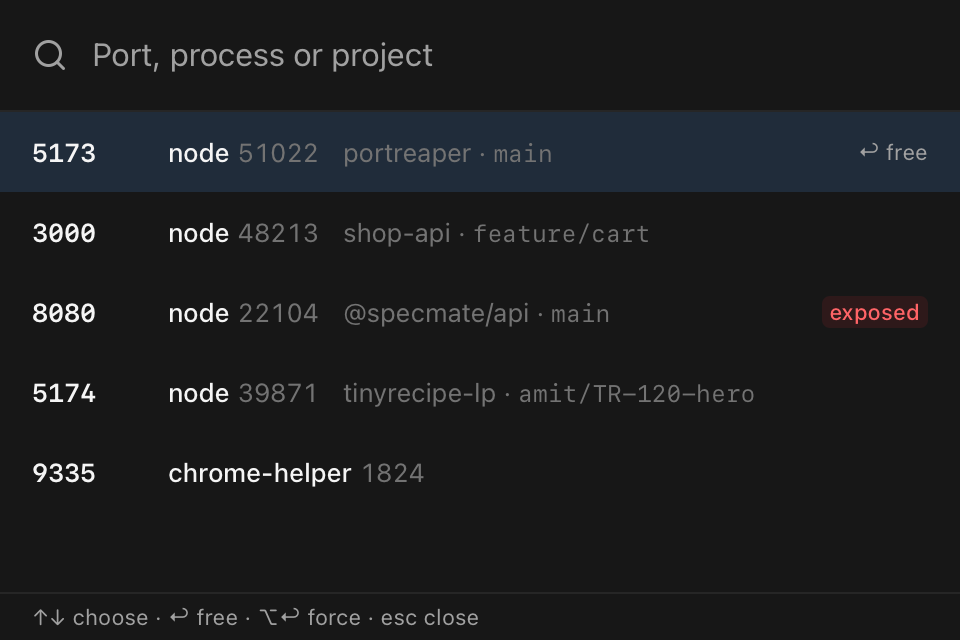
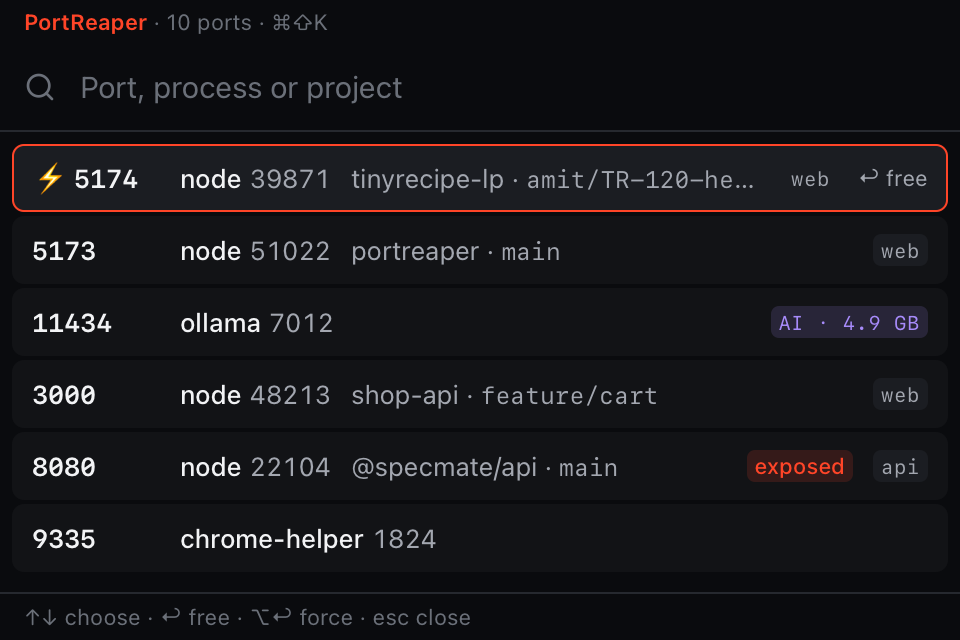
test(quick): e2e for the v2 strip, first paint measured in-page; screenshots
e2e/quick.spec.ts: the zombie heads an empty query and is selected; the
first rows are timed in the browser from the "quick:start" mark in main.ts
to the first [role=option] (cold and, after a reload, warm from the
session cache), asserted under 100 ms; typing 3 lists the 3000-prefixed
ports with :3000 first; Enter shows the result row, timed in-page (held
~182 ms), and the query is clear within 500 ms while the strip stays (the
hide is a no-op in a browser); the protected flow and Esc kept; the ai row
(?fixture=ai) shows "AI · 4.9 GB". No row counts asserted: the mock is
WP-11's and may grow.

docs/screenshot-quick*.png regenerated with the screenshot project on the
ai fixture; dark only now, so both files are the same picture.

Claude-Session: https://claude.ai/code/session_014oBow5NfEU2pNt3KKwmMyp

diff --git a/e2e/quick.spec.ts b/e2e/quick.spec.ts
@@ -1,57 +1,175 @@
 import { expect, type Locator, type Page, test } from "@playwright/test";
 
 /**
- * The Quick strip (`quick.html`, WP-8b) in a browser against the mock core. The window that
- * hosts it (480×320, always on top, hidden on blur) is WP-8a's and is not here: in a browser
- * `hideCurrentWindow()` is a no-op, so after a kill or Esc the strip simply stays on screen.
+ * The Quick strip (`quick.html`: WP-8b, made instant and restyled by WP-12) in a browser against
+ * the mock core. The window that hosts it (480×320, always on top, hidden on blur) is WP-8a's
+ * and is not here: in a browser `hideCurrentWindow()` is a no-op, so after a kill or Esc the
+ * strip simply stays on screen.
+ *
+ * Row counts are never asserted: WP-11 may add entries to the mock. What is relied on: :3000
+ * (a dev server), :5432 (protected, Docker, which also holds :6379), :5174 (the lost-terminal
+ * zombie, so it heads an empty query), and the Ollama row `?fixture=ai` adds.
  */
 test.use({ viewport: { width: 480, height: 320 } });
 test.describe.configure({ mode: "parallel" });
 
-/** What an empty query shows: the mock's unprotected entries, newest first (`recents()` in src/quick/match.ts). */
-const RECENT_PORTS = [5173, 3000, 8080, 5174, 9335];
-
 const input = (page: Page): Locator => page.getByRole("combobox", { name: "Free a port" });
 const options = (page: Page): Locator => page.getByRole("option");
 const option = (page: Page, port: number): Locator => page.locator(`[role="option"][data-port="${port}"]`);
+const chip = (row: Locator): Locator => row.locator("[data-chip]");
+const header = (page: Page): Locator => page.locator("header");
 const footer = (page: Page): Locator => page.locator("footer");
 const shownPorts = (page: Page) =>
   options(page).evaluateAll((els) => els.map((el) => Number(el.getAttribute("data-port"))));
 
-/** Opens the strip and waits for the first poll: the recents, with the caret in the input. */
-async function openQuick(page: Page): Promise<void> {
-  await page.goto("/quick.html");
-  await expect(options(page)).toHaveCount(RECENT_PORTS.length);
+/** Opens the strip and waits for the first list: the zombie heads it, the caret is in the input. */
+async function openQuick(page: Page, search = ""): Promise<void> {
+  await page.goto(`/quick.html${search}`);
+  await expect(options(page).first()).toHaveAttribute("data-port", "5174");
   await expect(input(page)).toBeFocused();
 }
 
-test("typing 30 selects :3000; Enter frees it, says so, then the strip clears without it", async ({
+/** Marks `quick:rows` the moment the first row is in the DOM; `main.ts` marks `quick:start` when its script runs. */
+function markFirstRows(page: Page): Promise<void> {
+  return page.addInitScript(() => {
+    const observer = new MutationObserver(() => {
+      if (document.querySelector('[role="option"]')) {
+        performance.mark("quick:rows");
+        observer.disconnect();
+      }
+    });
+    observer.observe(document, { childList: true, subtree: true });
+  });
+}
+
+/** ms from `main.ts` to the first row, and from navigation start to the first row (which includes fetching the modules). */
+function firstPaint(page: Page): Promise<{ sinceScript: number; sinceNavigation: number }> {
+  return page.evaluate(() => {
+    const rows = performance.getEntriesByName("quick:rows")[0];
+    const start = performance.getEntriesByName("quick:start")[0];
+    if (!rows || !start) throw new Error("the first-paint marks are missing");
+    return { sinceScript: rows.startTime - start.startTime, sinceNavigation: rows.startTime };
+  });
+}
+
+interface Freed {
+  text: string;
+  heldMs: number;
+}
+declare global {
+  interface Window {
+    __quickFreed?: Promise<Freed>;
+  }
+}
+
+/**
+ * Installs, and waits for the install of, a watcher for a row saying "Freed :<port>". The
+ * result lasts 180 ms, which an assertion round-trip can miss, so the browser itself takes the
+ * times: `freedResult()` resolves once that row has gone again, with its text and how long it
+ * stayed. Call this before Enter; a watcher sent in the same breath as the key can land after it.
+ */
+async function watchFreed(page: Page, port: number): Promise<void> {
+  await page.evaluate((needle) => {
+    window.__quickFreed = new Promise<Freed>((resolve) => {
+      let text: string | null = null;
+      let shownAt = 0;
+      const observer = new MutationObserver(() => {
+        const hit = [...document.querySelectorAll('[role="option"]')].find((o) =>
+          o.textContent?.includes(needle),
+        );
+        if (hit && text === null) {
+          text = hit.textContent ?? "";
+          shownAt = performance.now();
+        } else if (!hit && text !== null) {
+          observer.disconnect();
+          resolve({ text, heldMs: performance.now() - shownAt });
+        }
+      });
+      observer.observe(document, { childList: true, subtree: true, characterData: true });
+    });
+  }, `Freed :${port}`);
+}
+
+function freedResult(page: Page): Promise<Freed> {
+  return page.evaluate(() => {
+    if (!window.__quickFreed) throw new Error("watchFreed() was not called");
+    return window.__quickFreed;
+  });
+}
+
+test("lists rows within 100 ms of load: the lost-terminal zombie first and selected, the header, the footer", async ({
   page,
-}) => {
+}, testInfo) => {
+  await markFirstRows(page);
   await openQuick(page);
-  await expect.poll(() => shownPorts(page)).toEqual(RECENT_PORTS);
-  await expect(option(page, 5173)).toHaveAttribute("aria-selected", "true");
+  const cold = await firstPaint(page);
+  testInfo.annotations.push({
+    type: "first paint (cold)",
+    description: `${cold.sinceScript.toFixed(1)} ms after main.ts, ${cold.sinceNavigation.toFixed(0)} ms after navigation`,
+  });
+  console.log(
+    `[quick] first rows: ${cold.sinceScript.toFixed(1)} ms after main.ts, ${cold.sinceNavigation.toFixed(0)} ms after navigation (cold)`,
+  );
+  expect(cold.sinceScript).toBeLessThan(100);
+
+  const zombie = option(page, 5174);
+  await expect(zombie).toHaveAttribute("aria-selected", "true");
+  await expect(zombie.getByLabel("lost terminal")).toHaveText("⚡");
+  await expect(zombie).toContainText("tinyrecipe-lp");
+  await expect(zombie).toContainText("↩ free");
+  await expect(chip(zombie)).toHaveText("web");
+  await expect(option(page, 3000).getByLabel("lost terminal")).toHaveCount(0);
+  await expect(option(page, 5432)).toHaveCount(0);
+  await expect(header(page)).toHaveText(/^PortReaper · \d+ ports · ⌘⇧K$/);
   await expect(footer(page)).toHaveText("↑↓ choose · ↩ free · ⌥↩ force · esc close");
 
-  await page.keyboard.type("30");
-  await expect(input(page)).toHaveValue("30");
-  await expect(options(page)).toHaveCount(1);
+  // Warm: a reload paints the cached list before its first poll answers.
+  await page.reload();
+  await expect(options(page).first()).toHaveAttribute("data-port", "5174");
+  const warm = await firstPaint(page);
+  testInfo.annotations.push({
+    type: "first paint (warm, from the session cache)",
+    description: `${warm.sinceScript.toFixed(1)} ms after main.ts, ${warm.sinceNavigation.toFixed(0)} ms after navigation`,
+  });
+  console.log(
+    `[quick] first rows: ${warm.sinceScript.toFixed(1)} ms after main.ts, ${warm.sinceNavigation.toFixed(0)} ms after navigation (warm)`,
+  );
+  expect(warm.sinceScript).toBeLessThan(100);
+});
+
+test("typing 3 lists the 3000-prefixed ports, :3000 first; Enter frees it, says so, and the query clears within 500 ms", async ({
+  page,
+}, testInfo) => {
+  await openQuick(page);
+
+  await page.keyboard.type("3");
+  await expect(input(page)).toHaveValue("3");
   const target = option(page, 3000);
   await expect(target).toHaveAttribute("aria-selected", "true");
+  const ports = await shownPorts(page);
+  expect(ports[0]).toBe(3000);
+  expect(ports.every((p) => String(p).startsWith("3"))).toBe(true);
   await expect(target).toContainText("node");
   await expect(target).toContainText("48213");
   await expect(target).toContainText("shop-api");
   await expect(target).toContainText("feature/cart");
   await expect(target).toContainText("↩ free");
+  await expect(chip(target)).toHaveText("web");
 
+  await watchFreed(page, 3000);
   await page.keyboard.press("Enter");
-  await expect(target).toContainText("Freed :3000 · node (48213)");
+  const result = await freedResult(page);
+  expect(result.text).toContain("Freed :3000 · node (48213)");
+  testInfo.annotations.push({ type: "result row held", description: `${result.heldMs.toFixed(0)} ms` });
+  console.log(`[quick] result row held ${result.heldMs.toFixed(0)} ms`);
+  expect(result.heldMs).toBeGreaterThanOrEqual(150);
+  expect(result.heldMs).toBeLessThan(500);
 
-  // 1.2 s later the strip is done: the query clears and the recents come back without :3000.
-  // `hideCurrentWindow()` is a no-op here, so the strip stays and still has the caret.
-  await expect(input(page)).toHaveValue("");
+  // The strip is done: the query is clear and :3000 is gone. `hideCurrentWindow()` is a no-op
+  // here, so the strip stays, the zombie heads it again and the caret is still in the input.
+  await expect(input(page)).toHaveValue("", { timeout: 500 });
   await expect(option(page, 3000)).toHaveCount(0);
-  await expect.poll(() => shownPorts(page)).toEqual(RECENT_PORTS.filter((p) => p !== 3000));
+  await expect(options(page).first()).toHaveAttribute("data-port", "5174");
   await expect(input(page)).toBeVisible();
   await expect(input(page)).toBeFocused();
 });
@@ -64,15 +182,17 @@ test("a protected port asks once more; the second Enter frees every port of that
   await expect(options(page)).toHaveCount(1);
   await expect(docker).toHaveAttribute("aria-selected", "true");
   await expect(docker.getByLabel("protected")).toBeVisible();
+  await expect(chip(docker)).toHaveText("db");
 
   await page.keyboard.press("Enter");
   await expect(docker).toContainText("This is Docker (com.docker.backend). Press Enter again to kill it.");
   await expect(docker).toContainText("↩ kill");
   await expect(options(page)).toHaveCount(1);
 
+  await watchFreed(page, 5432);
   await page.keyboard.press("Enter");
-  await expect(docker).toContainText("Freed :5432 · com.docker.backend (11710)");
-  await expect(input(page)).toHaveValue("");
+  expect((await freedResult(page)).text).toContain("Freed :5432 · com.docker.backend (11710)");
+  await expect(input(page)).toHaveValue("", { timeout: 500 });
 
   // The same pid held :6379 in the mock; the core took both.
   await page.keyboard.type("6379");
@@ -87,20 +207,34 @@ test("Esc clears a query; on an empty query it is a no-op in the browser and the
   page.on("pageerror", (err) => thrown.push(err.message));
   await openQuick(page);
 
-  // `vite` is in two command lines (portreaper and tinyrecipe-lp).
+  // `vite` is in two command lines (portreaper and tinyrecipe-lp); a query ranks by port, not by zombie.
   await page.keyboard.type("vite");
   await expect.poll(() => shownPorts(page)).toEqual([5173, 5174]);
   await page.keyboard.press("Escape");
   await expect(input(page)).toHaveValue("");
-  await expect(options(page)).toHaveCount(RECENT_PORTS.length);
+  await expect(options(page).first()).toHaveAttribute("data-port", "5174");
 
   // Nothing to hide without Tauri: the strip is still there and still takes keys.
   await page.keyboard.press("Escape");
   await expect.poll(() => page.evaluate(() => "__TAURI_INTERNALS__" in window)).toBe(false);
   await expect(input(page)).toBeVisible();
   await expect(input(page)).toBeFocused();
-  await expect(options(page)).toHaveCount(RECENT_PORTS.length);
+  await expect(options(page).first()).toHaveAttribute("data-port", "5174");
   await page.keyboard.press("ArrowDown");
-  await expect(option(page, 3000)).toHaveAttribute("aria-selected", "true");
+  await expect(option(page, 5173)).toHaveAttribute("aria-selected", "true");
   expect(thrown).toEqual([]);
+});
+
+test("an ai row's chip carries its memory", async ({ page }) => {
+  await openQuick(page, "?fixture=ai");
+  const ollama = option(page, 11434);
+  await expect(ollama).toHaveAttribute("data-category", "ai");
+  await expect(ollama).toContainText("ollama");
+  await expect(ollama).toContainText("7012");
+  await expect(chip(ollama)).toHaveText("AI · 4.9 GB");
+  await expect(ollama.getByLabel("lost terminal")).toHaveCount(0);
+
+  await page.keyboard.type("ollama");
+  await expect.poll(() => shownPorts(page)).toEqual([11434]);
+  await expect(chip(ollama)).toHaveText("AI · 4.9 GB");
 });

diff --git a/e2e/screenshot.spec.ts b/e2e/screenshot.spec.ts
@@ -21,8 +21,10 @@ for (const { scheme, path } of shots) {
   });
 }
 
-// The Quick strip (WP-8b) at its window size, 480×320: the recents on an empty query, the first
-// row selected so the "↩ free" hint is in the picture.
+// The Quick strip (WP-8b, WP-12) at its window size, 480×320: the pre-selection on an empty
+// query with the lost-terminal zombie first and selected, so the ⚡ and the "↩ free" hint are
+// in the picture, and `?fixture=ai` for an Ollama row with its memory chip. v0.2 is dark only:
+// both schemes render the same; both files stay so links to either keep working.
 test.describe("quick", () => {
   test.use({ viewport: { width: 480, height: 320 } });
 
@@ -34,10 +36,11 @@ test.describe("quick", () => {
   for (const { scheme, path } of quickShots) {
     test(`${scheme} → ${path}`, async ({ page }) => {
       await page.emulateMedia({ colorScheme: scheme });
-      await page.goto("/quick.html");
+      await page.goto("/quick.html?fixture=ai");
       const options = page.getByRole("option");
-      await expect(options).toHaveCount(5);
+      await expect(options.first()).toHaveAttribute("data-port", "5174");
       await expect(options.first()).toHaveAttribute("aria-selected", "true");
+      await expect(page.locator('[role="option"][data-port="11434"]')).toBeVisible();
       await page.screenshot({ path });
     });
   }
